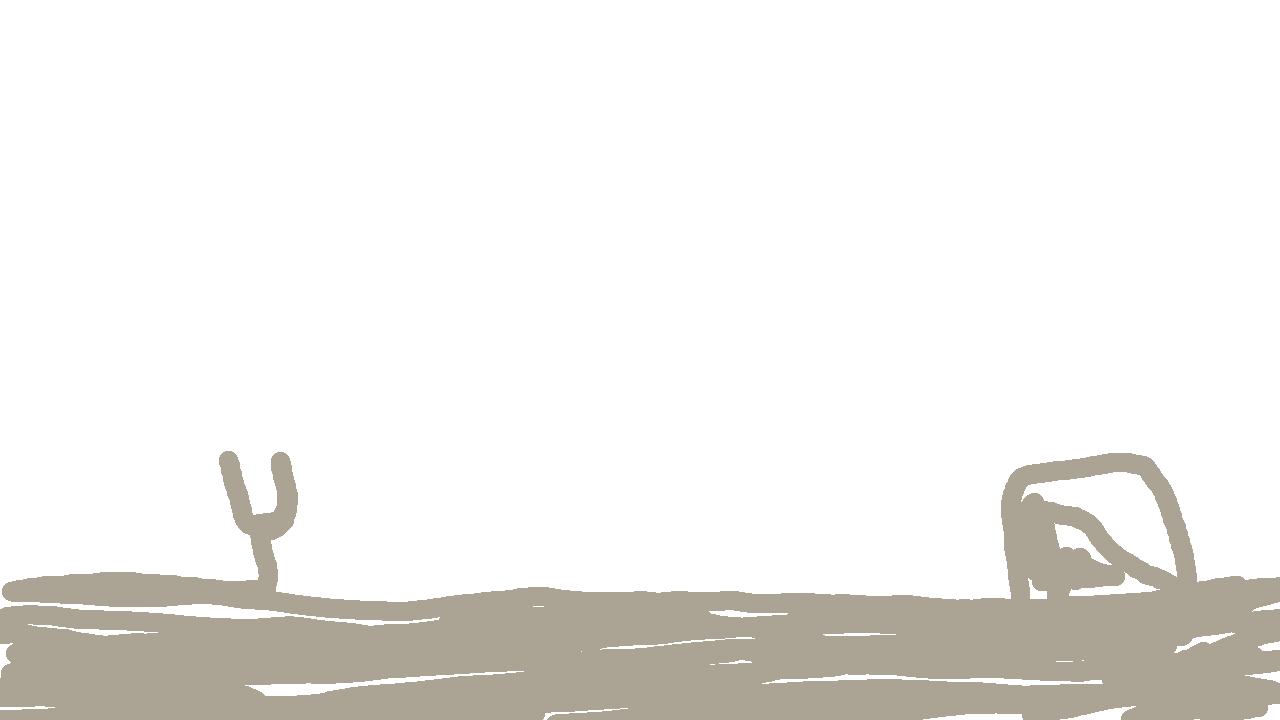
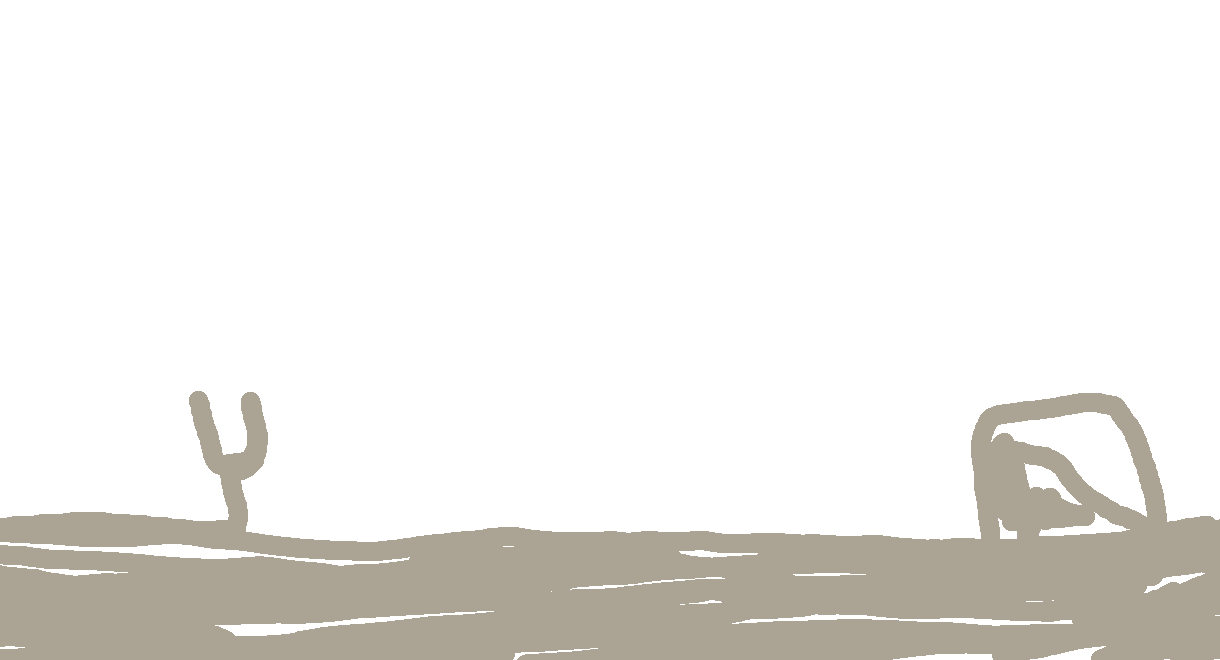
Lower resolution

diff --git a/src/components/GameComposition.vue b/src/components/GameComposition.vue
@@ -13,7 +13,7 @@ import { reactive, watch, computed } from '@vue/composition-api'
 Vue.use(VueCompositionApi)
 
 function useBird() {
-  const initialBird = () => ({ x: 229, y: 256 })
+  const initialBird = () => ({ x: 199, y: 256 })
   const bird = reactive(initialBird())
   const moveBird = trajectory => {
     trajectory.map(({ x, y }, t) => setTimeout(() => {
@@ -42,10 +42,10 @@ function useCatapult(moveBird) {
   const dragStart = reactive({ x: null, y: null })
   const startDrag = e => {
     dragStart.x = e.clientX
-    dragStart.y = 720 - e.clientY
+    dragStart.y = 660 - e.clientY
   }
   const stopDrag = e => {
-    moveBird(calculateTrajectory(dragStart.x, dragStart.y, e.clientX, 720 - e.clientY))
+    moveBird(calculateTrajectory(dragStart.x, dragStart.y, e.clientX, 660 - e.clientY))
   }
   const calculateTrajectory = (x1, y1, x2, y2) => {
     let Vx = (x1 - x2)/1.7,
@@ -66,7 +66,7 @@ function useCatapult(moveBird) {
 }
 
 function useTarget(bird, winCallback) {
-  const target = { x: 1000, y: 263 }
+  const target = { x: 970, y: 263 }
   const targetPosition = computed(() => ({
     left: target.x + 'px',
     bottom: target.y + 'px'

diff --git a/src/components/GameOld.vue b/src/components/GameOld.vue
@@ -6,8 +6,8 @@
 </template>
 
 <script>
-const initialBird = () => ({ x: 229, y: 256 })
-const target = { x: 1000, y: 263 }
+const initialBird = () => ({ x: 199, y: 256 })
+const target = { x: 970, y: 263 }
 
 export default {
   data() {
@@ -19,10 +19,10 @@ export default {
   methods: {
     startDrag(e) {
       this.dragStart.x = e.clientX
-      this.dragStart.y = 720 - e.clientY
+      this.dragStart.y = 660 - e.clientY
     },
     stopDrag(e) {
-      this.moveBird(this.calculateTrajectory(this.dragStart.x, this.dragStart.y, e.clientX, 720 - e.clientY))
+      this.moveBird(this.calculateTrajectory(this.dragStart.x, this.dragStart.y, e.clientX, 660 - e.clientY))
     },
     calculateTrajectory(x1, y1, x2, y2) {
       let Vx = (x1 - x2)/1.7,

diff --git a/src/assets/style.css b/src/assets/style.css
@@ -2,8 +2,8 @@ body {
   background-color: #2d271c;
 }
 .container {
-  width: 1280px;
-  height: 720px;
+  width: 1220px;
+  height: 660px;
   background: url('./background.png');
   position: relative;
 }
